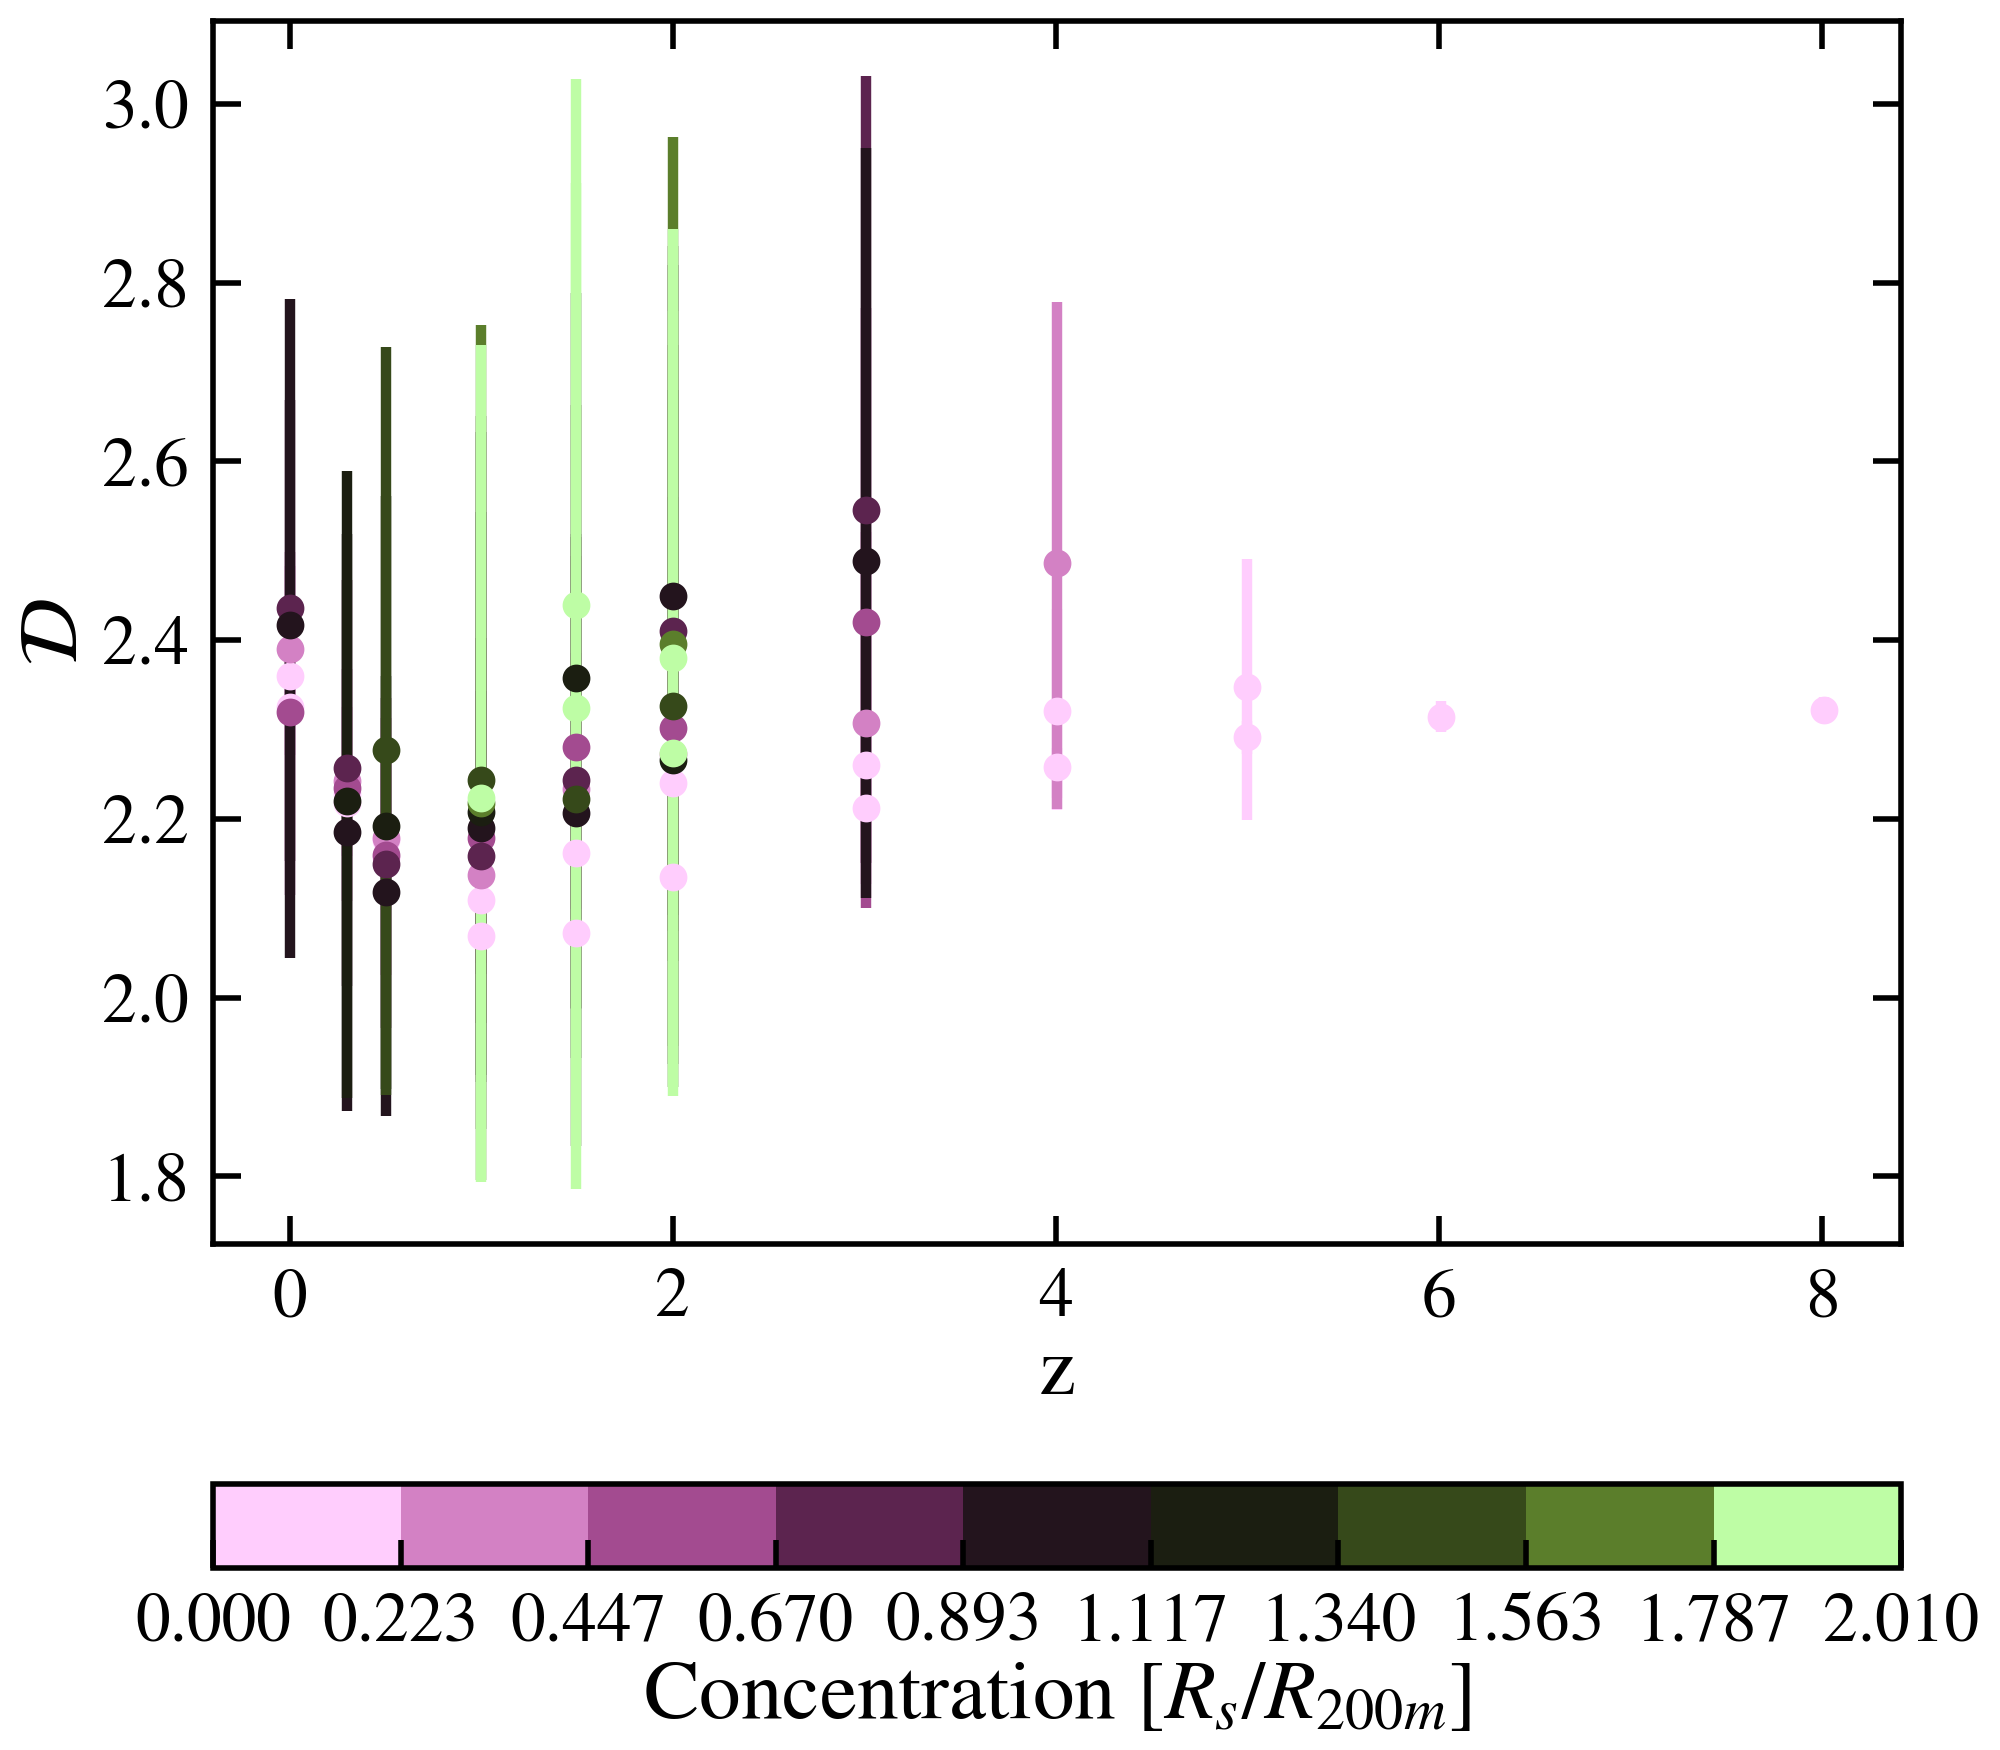
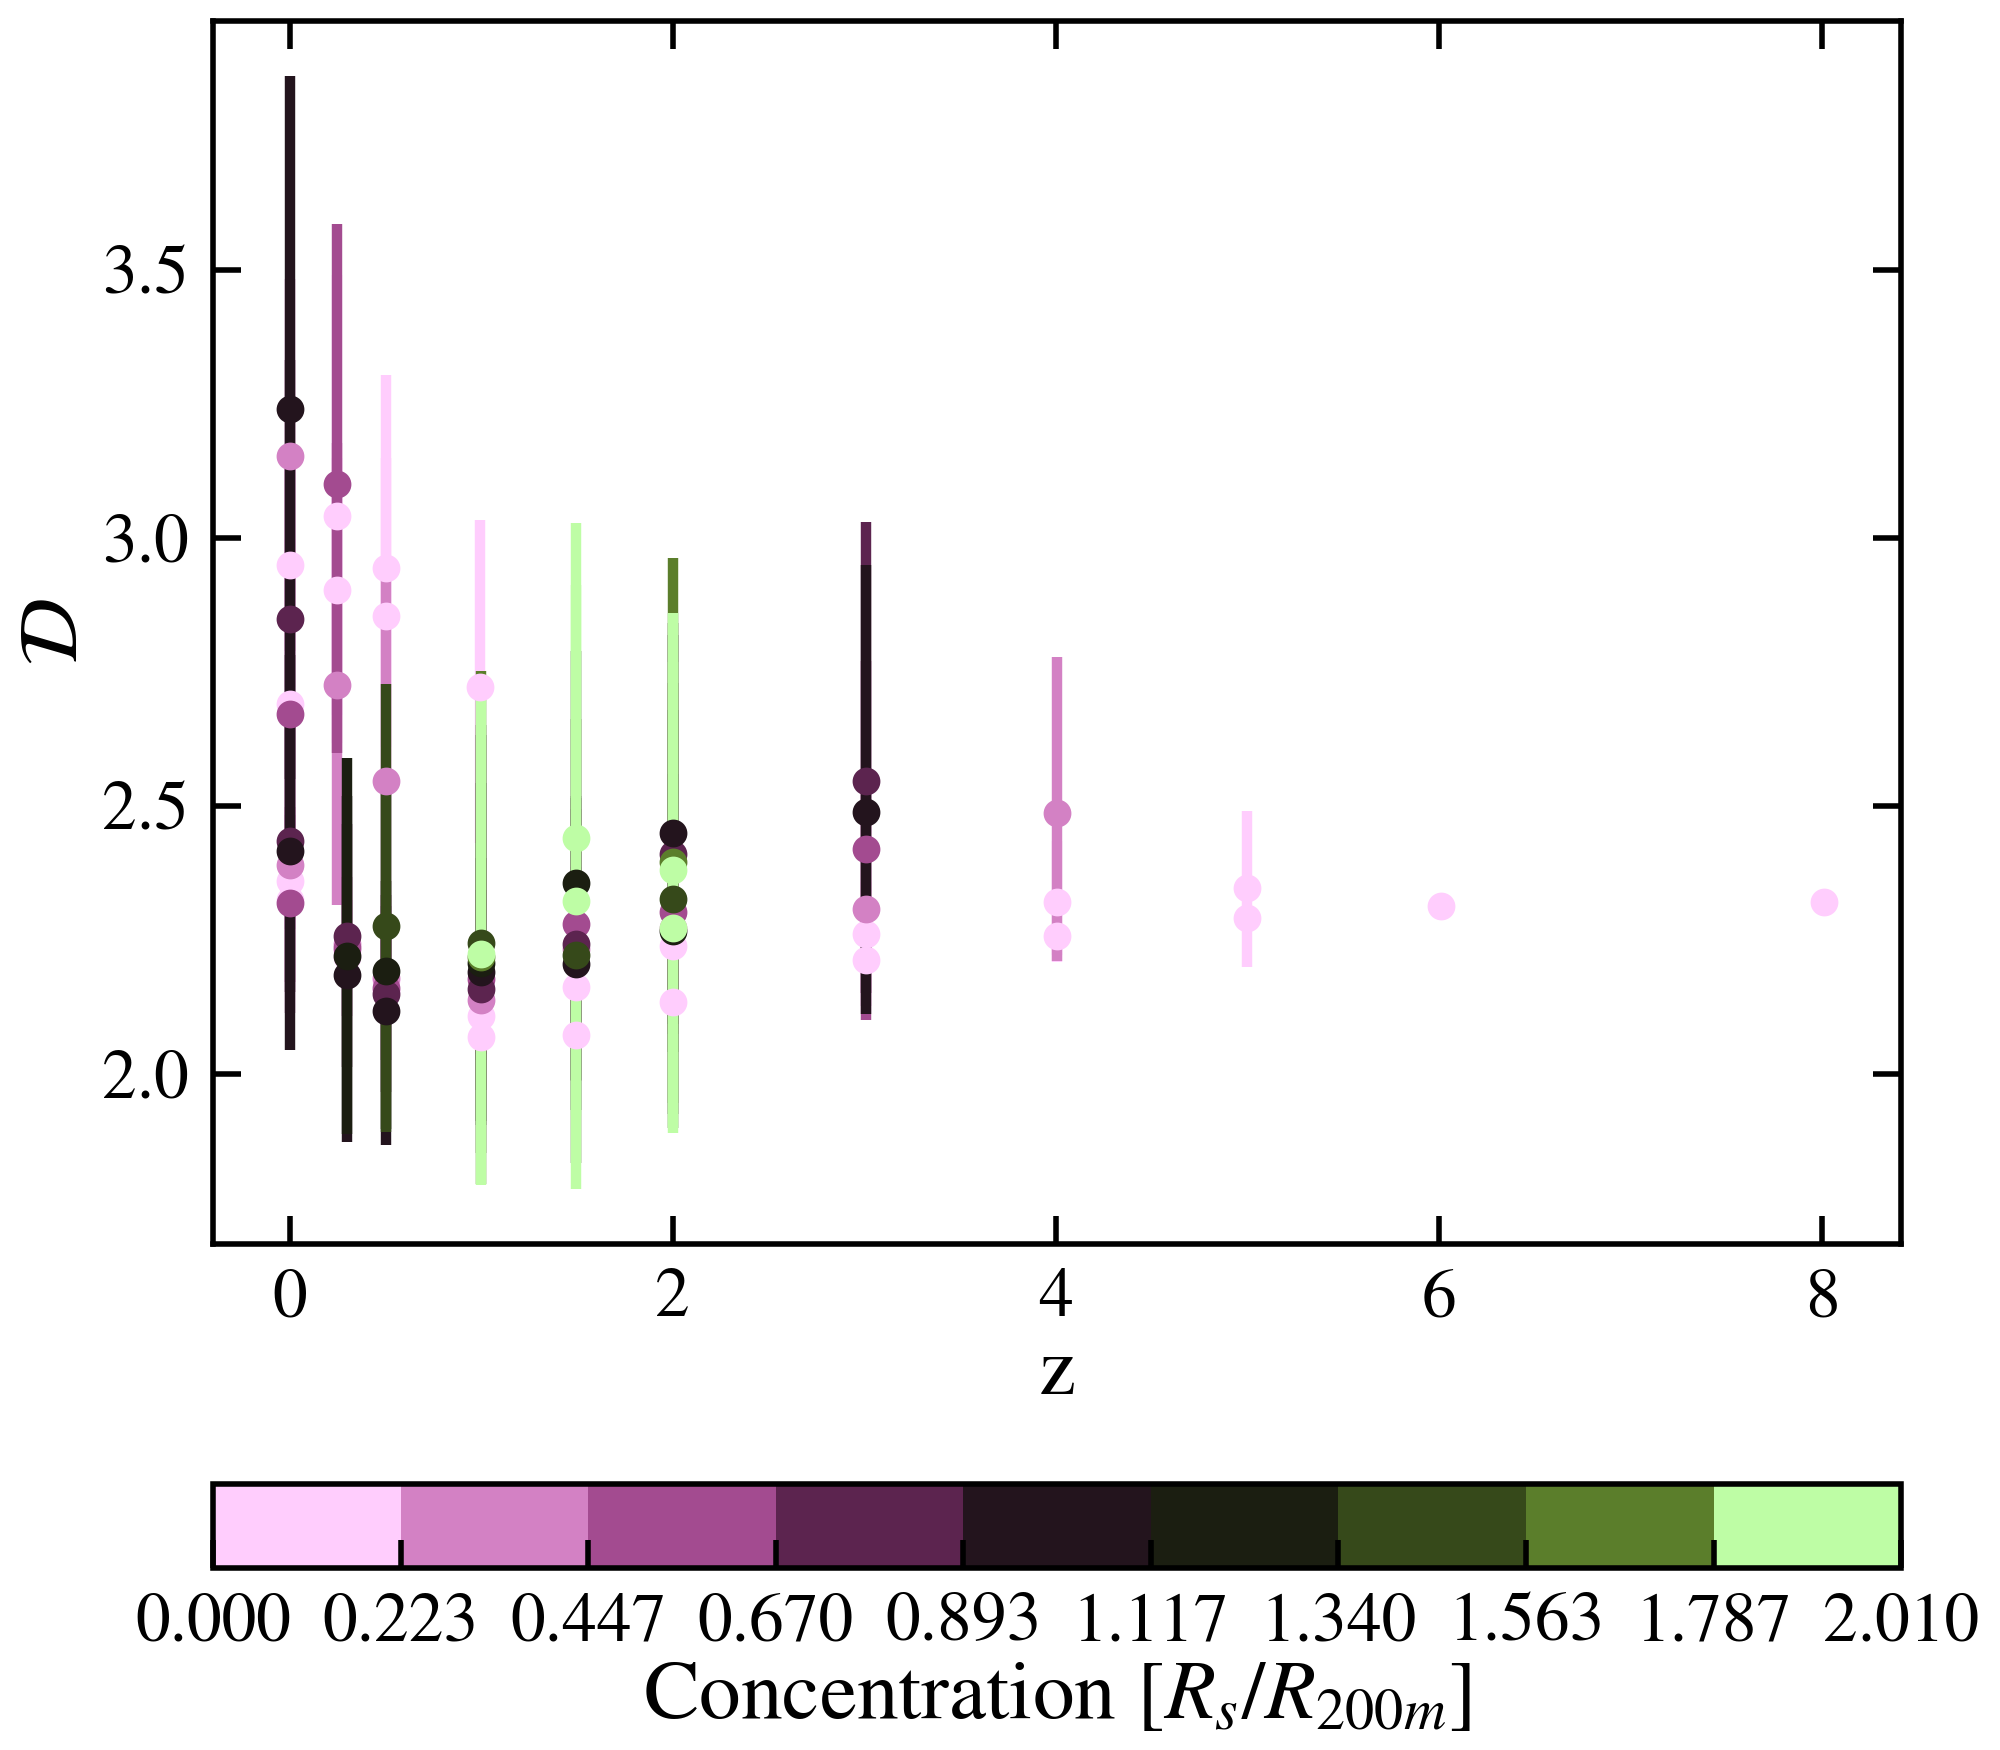
new

diff --git a/code/paper_plot/fig3_conc.py b/code/paper_plot/fig3_conc.py
@@ -10,7 +10,7 @@ print('>>> Plot depth and width vs mass <<<')
 print('')
 
 root_dir = 'result/bootstrap_stats/with_conc/'
-simus = ['Hydro', 'DM']
+simus = ['Hydro','DM']
 features = [# abs_depth', 
             'width_dimless',
            'depth', 
@@ -48,8 +48,11 @@ for simu in simus:
         TNG300_snaps = [99, 78, 67, 50, 40, 33, 25, 21, 17, 13, 8]
         TNG300_dir = f'{root_dir}/TNG300/sim_205_1250_{simu}/Nboots_1024/'
         TNG300_z_i, TNG300_z_f = load_all_z(TNG300_dir, [min(TNG300_snaps), max(TNG300_snaps)])
-
-        MTNG_snaps = [264, 237, 214, 179, 151, 129]
+        
+        if simu == 'DM':
+            MTNG_snaps = [264, 237, 214, 179]
+        else:
+            MTNG_snaps = [264, 237, 214, 179, 151]
         MTNG_dir = f'{root_dir}/MTNG/{simu}-Arepo/MTNG-L500-4320-A/Nboots_1024/'
         
         all_z = load_all_z(TNG300_dir, TNG300_snaps)
@@ -98,6 +101,11 @@ for simu in simus:
         for snap in MTNG_snaps:
             MTNG_z, MTNG_conc, MTNG_feat = load_stats(MTNG_dir, f'snap_{snap}_Rsp_stats.npy',
                                                       'med_conc', feature)
+            # Remove extremely small points
+            remove_idx = np.where(MTNG_conc['median'] < 0.01)
+            MTNG_conc = {k: np.delete(v, remove_idx) for k, v in MTNG_conc.items()}
+            MTNG_feat = {k: np.delete(v, remove_idx) for k, v in MTNG_feat.items()}
+            
             plot_feature(simu, np.round(MTNG_z, 1), MTNG_conc, MTNG_feat, [axs, cmap, norm])
             
             # Append the data

diff --git a/code/paper_plot/fig4_conc.py b/code/paper_plot/fig4_conc.py
@@ -45,7 +45,10 @@ for simu in simus:
         TNG300_snaps = [99, 78, 67, 50, 40, 33, 25, 21, 17, 13, 8]
         TNG300_dir = f'{root_dir}/TNG300/sim_205_1250_{simu}/Nboots_1024/'
 
-        MTNG_snaps = [264, 237, 214, 179, 151, 129]
+        if simu == 'DM':
+            MTNG_snaps = [264, 237, 214, 179]
+        else:
+            MTNG_snaps = [264, 237, 214, 179, 151]
         MTNG_dir = f'{root_dir}/MTNG/{simu}-Arepo/MTNG-L500-4320-A/Nboots_1024/'
 
         # ============================================================================================
